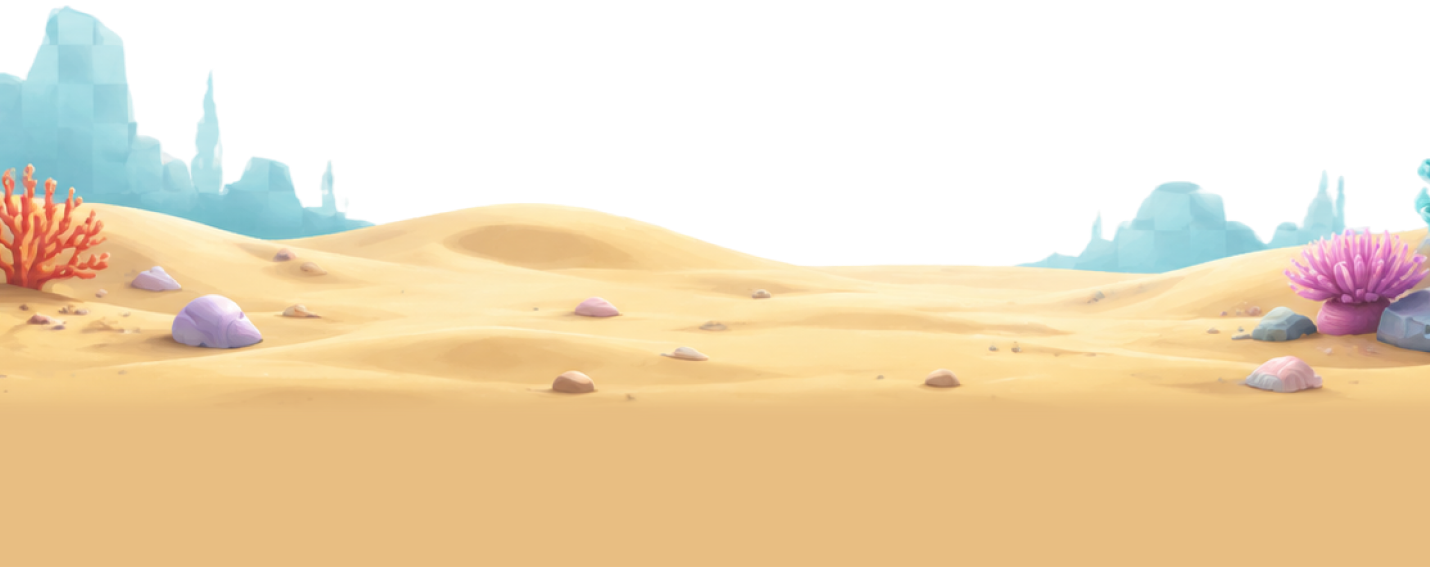
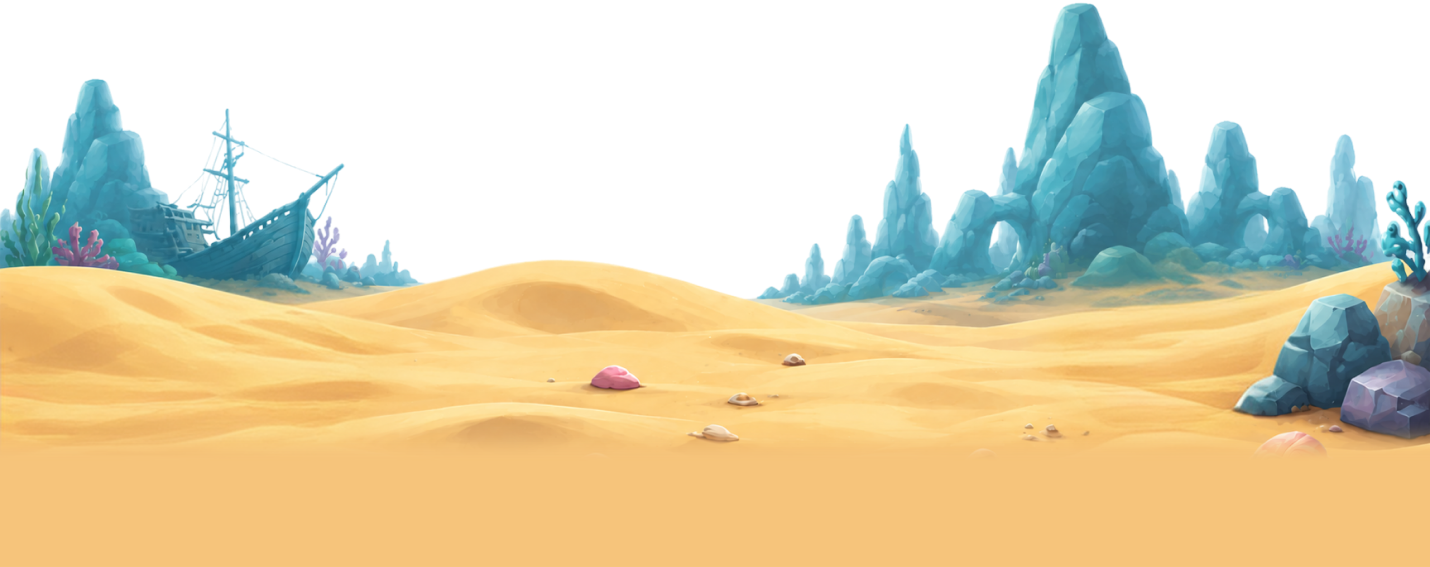
animated lvl 1

diff --git a/src/game.js b/src/game.js
@@ -2,6 +2,31 @@ import { FRUITS, STARTING_LEVELS, GAMEPLAY, PROGRESS_UI } from './fruits.js';
 
 const Phaser = window.Phaser;
 
+// ---------- Анимация составной рыбы первого уровня ----------
+const FISH_ANIMATION = Object.freeze({
+  levelIndex: 0,
+  canvasSize: 512,
+  bodyTextureKey: 'fish-level-1-body',
+  bodyTexturePath: './assets/fish/animated/level1/body.png',
+  finTextureKey: 'fish-level-1-fin',
+  finTexturePath: './assets/fish/animated/level1/fin.png',
+  eyesClosedTextureKey: 'fish-level-1-eyes-closed',
+  eyesClosedTexturePath: './assets/fish/animated/level1/eyes_closed.png',
+  
+  
+  // Точка крепления плавника к телу
+  finOriginX: 0.304,
+  finOriginY: 0.619,
+  finOffsetX: 0,
+  finOffsetY: 0,
+  // Верхнее положение плавника
+  finAngleUp: -6,
+  // Нижнее положение плавника
+  finAngleDown: 8,
+  // Время движения между крайними положениями
+  finDuration: 1600,
+});
+
 // ---------- Данные подводного атласа ----------
 const FISH_DATA = Object.freeze([
   Object.freeze({ level: 1, name: 'Пузырик', character: 'Добрый, наивный и любопытный.', description: 'Самый любопытный житель рифа. Верит, что каждый день приносит новое приключение.' }),
@@ -218,6 +243,7 @@ const EFFECTS_CONFIG = Object.freeze({
 const QA_CONFIG = Object.freeze({
   setupDelay: 120,
   mergeOffsetX: 62,
+  levelOneMergeOffsetX: 23,
   mergeY: 410,
   mergeVelocityX: 0.25,
   mergeVelocityY: -0.2,
@@ -272,6 +298,8 @@ const QA_PHYSICS_PILE = URL_OPTIONS.has('qaPhysicsPile');
 const QA_GAME_OVER = URL_OPTIONS.has('qaGameOver');
 const QA_PROGRESSION = URL_OPTIONS.has('qaProgression');
 const QA_AUDIO_EVENTS = URL_OPTIONS.has('qaAudioEvents');
+const QA_FISH_ANIMATION = URL_OPTIONS.has('qaFishAnimation');
+const QA_LEVEL_ONE_MERGE = URL_OPTIONS.has('qaLevelOneMerge');
 const QA_NEXT_LEVEL = Number.parseInt(
   URL_OPTIONS.get('qaNextLevel') || '',
   NUMBER_FORMAT_CONFIG.decimalRadix,
@@ -353,6 +381,7 @@ const ui = {
 
 const warnedProgressAssets = new Set();
 const warnedAtlasAssets = new Set();
+let warnedMissingLevelOneAnimation = false;
 // Флаг живёт до перезагрузки страницы и не сбрасывается при рестарте Phaser-сцены.
 let hasCompletedFirstDrop = false;
 
@@ -476,10 +505,11 @@ class FruitScene extends Phaser.Scene {
     this.handleAudioPageShow = null;
     this.hasWarnedSuspendedAudio = false;
     this.handleAssetLoadError = (file) => {
-      console.warn('[Audio] Failed to load asset:', file.key, file.src);
+      console.warn('[Ресурсы] Не удалось загрузить файл:', file.key, file.src);
     };
     this.recordSoundPlayed = false;
     this.gameOverSoundPlayed = false;
+    this.stoppedFishAnimationCount = 0;
   }
 
   preload() {
@@ -488,6 +518,9 @@ class FruitScene extends Phaser.Scene {
 
     // Все изображения из единой конфигурации загружаются заранее; при ошибке используется fallback-круг.
     FRUITS.forEach((config) => this.load.image(config.textureKey, config.texturePath));
+    this.load.image(FISH_ANIMATION.bodyTextureKey, FISH_ANIMATION.bodyTexturePath);
+    this.load.image(FISH_ANIMATION.finTextureKey, FISH_ANIMATION.finTexturePath);
+    this.load.image(FISH_ANIMATION.eyesClosedTextureKey, FISH_ANIMATION.eyesClosedTexturePath);
     // Универсальная закрытая рыба загружается один раз и переиспользуется во всех слотах.
     this.load.image(PROGRESS_UI.lockedTextureKey, PROGRESS_UI.lockedTexturePath);
     this.load.image(SEABED_TEXTURE_KEY, SEABED_TEXTURE_PATH);
@@ -530,6 +563,7 @@ class FruitScene extends Phaser.Scene {
     this.ambientEnabled = readAmbientEnabled();
     this.recordSoundPlayed = false;
     this.gameOverSoundPlayed = false;
+    this.stoppedFishAnimationCount = 0;
 
     this.time.paused = false;
     this.matter.world.resume();
@@ -538,6 +572,15 @@ class FruitScene extends Phaser.Scene {
     FRUITS.forEach((config) => {
       if (this.textures.exists(config.textureKey)) {
         this.textures.get(config.textureKey).setFilter(Phaser.Textures.FilterMode.NEAREST);
+      }
+    });
+    [
+      FISH_ANIMATION.bodyTextureKey,
+      FISH_ANIMATION.finTextureKey,
+      FISH_ANIMATION.eyesClosedTextureKey,
+    ].forEach((textureKey) => {
+      if (this.textures.exists(textureKey)) {
+        this.textures.get(textureKey).setFilter(Phaser.Textures.FilterMode.NEAREST);
       }
     });
     if (this.textures.exists(PROGRESS_UI.lockedTextureKey)) {
@@ -607,6 +650,7 @@ class FruitScene extends Phaser.Scene {
     if (QA_PHYSICS_PILE) this.setupPhysicsPileQa();
     if (QA_GAME_OVER) this.setupGameOverQa();
     if (QA_PROGRESSION) this.setupProgressionQa();
+    if (QA_LEVEL_ONE_MERGE) this.setupLevelOneMergeQa();
   }
 
   // ======================== Звуки ========================
@@ -1073,6 +1117,7 @@ class FruitScene extends Phaser.Scene {
     if (this.atlasWasRunning) {
       this.matter.world.pause();
       this.time.paused = true;
+      this.setFishPartAnimationsPaused(true);
     }
     this.renderAtlas();
     ui.atlasModal.hidden = false;
@@ -1086,6 +1131,7 @@ class FruitScene extends Phaser.Scene {
     if (this.atlasWasRunning && !this.isPaused && !this.gameEnded) {
       this.time.paused = false;
       this.matter.world.resume();
+      this.setFishPartAnimationsPaused(false);
       if (this.currentFruit?.isHeld) this.positionCurrentFruit(this.lastDragX);
     }
     this.atlasWasRunning = false;
@@ -1156,6 +1202,23 @@ class FruitScene extends Phaser.Scene {
     this.time.delayedCall(QA_CONFIG.setupDelay, () => {
       const left = this.createFruit(GAME_WIDTH / 2 - QA_CONFIG.mergeOffsetX, QA_CONFIG.mergeY, MAX_LEVEL_INDEX);
       const right = this.createFruit(GAME_WIDTH / 2 + QA_CONFIG.mergeOffsetX, QA_CONFIG.mergeY, MAX_LEVEL_INDEX);
+      left.physics.setVelocity(QA_CONFIG.mergeVelocityX, QA_CONFIG.mergeVelocityY);
+      right.physics.setVelocity(-QA_CONFIG.mergeVelocityX, QA_CONFIG.mergeVelocityY);
+    });
+  }
+
+  setupLevelOneMergeQa() {
+    this.time.delayedCall(QA_CONFIG.setupDelay, () => {
+      const left = this.createFruit(
+        GAME_WIDTH / 2 - QA_CONFIG.levelOneMergeOffsetX,
+        QA_CONFIG.mergeY,
+        FISH_ANIMATION.levelIndex,
+      );
+      const right = this.createFruit(
+        GAME_WIDTH / 2 + QA_CONFIG.levelOneMergeOffsetX,
+        QA_CONFIG.mergeY,
+        FISH_ANIMATION.levelIndex,
+      );
       left.physics.setVelocity(QA_CONFIG.mergeVelocityX, QA_CONFIG.mergeVelocityY);
       right.physics.setVelocity(-QA_CONFIG.mergeVelocityX, QA_CONFIG.mergeVelocityY);
     });
@@ -1381,17 +1444,149 @@ class FruitScene extends Phaser.Scene {
     this.positionCurrentFruit(this.lastDragX);
   }
 
+  hasLevelOneAnimationTextures() {
+    const requiredTextures = [
+      FISH_ANIMATION.bodyTextureKey,
+      FISH_ANIMATION.finTextureKey,
+      FISH_ANIMATION.eyesClosedTextureKey,
+    ];
+    const hasEveryTexture = requiredTextures.every((textureKey) => this.textures.exists(textureKey));
+    if (!hasEveryTexture && !warnedMissingLevelOneAnimation) {
+      warnedMissingLevelOneAnimation = true;
+      console.warn(
+        '[Анимация level1] Не все слои body.png, fin.png и eyes_closed.png загружены. Используется обычный assets/fish/level1.png.',
+      );
+    }
+    return hasEveryTexture;
+  }
+
+  createLevelOneAnimatedVisual(x, y, config) {
+    const body = this.add.image(0, 0, FISH_ANIMATION.bodyTextureKey)
+      .setOrigin(config.originX, config.originY);
+    const fin = this.add.image(0, 0, FISH_ANIMATION.finTextureKey)
+      .setOrigin(FISH_ANIMATION.finOriginX, FISH_ANIMATION.finOriginY);
+    const eyesClosed = this.add.image(0, 0, FISH_ANIMATION.eyesClosedTextureKey)
+      .setOrigin(config.originX, config.originY)
+      .setVisible(false);
+
+    // Компенсация origin сохраняет совмещение холстов при нулевом угле плавника.
+    const finCanvasWidth = fin.width || FISH_ANIMATION.canvasSize;
+    const finCanvasHeight = fin.height || FISH_ANIMATION.canvasSize;
+    fin.setPosition(
+      (FISH_ANIMATION.finOriginX - config.originX) * finCanvasWidth + FISH_ANIMATION.finOffsetX,
+      (FISH_ANIMATION.finOriginY - config.originY) * finCanvasHeight + FISH_ANIMATION.finOffsetY,
+    );
+
+    const visual = this.add.container(x, y, [body, fin, eyesClosed])
+      .setDepth(FISH_VISUAL_CONFIG.imageDepth);
+    const targetImageWidth = (config.radius * 2) / config.bodyRatio;
+    const baseVisualScale = targetImageWidth / body.width;
+    visual.setScale(baseVisualScale);
+
+    return { visual, body, fin, eyesClosed, baseVisualScale };
+  }
+
+  scheduleFruitAnimationCall(fruit, delay, callback) {
+    if (fruit.removed) return null;
+    let timer = null;
+    timer = this.time.delayedCall(delay, () => {
+      fruit.animationTimers.delete(timer);
+      if (!fruit.removed) callback();
+    });
+    fruit.animationTimers.add(timer);
+    return timer;
+  }
+
+  scheduleNextBlink(fruit) {
+    if (!fruit.eyesClosed || fruit.removed) return;
+    const delay = Phaser.Math.Between(
+      FISH_ANIMATION.blinkMinDelay,
+      FISH_ANIMATION.blinkMaxDelay,
+    );
+    this.scheduleFruitAnimationCall(fruit, delay, () => this.runBlink(fruit));
+  }
+
+  runBlink(fruit) {
+    if (!fruit.eyesClosed || fruit.removed) return;
+    fruit.eyesClosed.setVisible(true);
+    const useDoubleBlink = Math.random() < FISH_ANIMATION.doubleBlinkChance;
+
+    this.scheduleFruitAnimationCall(fruit, FISH_ANIMATION.blinkDuration, () => {
+      fruit.eyesClosed.setVisible(false);
+      if (!useDoubleBlink) {
+        this.scheduleNextBlink(fruit);
+        return;
+      }
+
+      const openDelay = Phaser.Math.Between(
+        FISH_ANIMATION.doubleBlinkOpenMinDelay,
+        FISH_ANIMATION.doubleBlinkOpenMaxDelay,
+      );
+      this.scheduleFruitAnimationCall(fruit, openDelay, () => {
+        fruit.eyesClosed.setVisible(true);
+        this.scheduleFruitAnimationCall(fruit, FISH_ANIMATION.doubleBlinkDuration, () => {
+          fruit.eyesClosed.setVisible(false);
+          this.scheduleNextBlink(fruit);
+        });
+      });
+    });
+  }
+
+  startFruitPartAnimation(fruit) {
+    if (!fruit.fin || !fruit.eyesClosed) return;
+    if (fruit.finTween) return;
+
+    // Один непрерывный tween изменяет только локальный угол плавника.
+    fruit.fin.setAngle(FISH_ANIMATION.finAngleUp);
+    fruit.finTween = this.tweens.add({
+      targets: fruit.fin,
+      angle: FISH_ANIMATION.finAngleDown,
+      duration: FISH_ANIMATION.finDuration,
+      yoyo: true,
+      repeat: -1,
+      ease: 'Sine.easeInOut',
+    });
+    this.scheduleNextBlink(fruit);
+  }
+
+  stopFruitPartAnimation(fruit) {
+    if (fruit.finTween || fruit.animationTimers?.size) this.stoppedFishAnimationCount += 1;
+    fruit.finTween?.stop();
+    fruit.finTween?.remove();
+    fruit.finTween = null;
+    fruit.animationTimers?.forEach((timer) => timer.remove(false));
+    fruit.animationTimers?.clear();
+  }
+
+  setFishPartAnimationsPaused(value) {
+    const animatedFruits = new Set(this.fruits.values());
+    if (this.currentFruit) animatedFruits.add(this.currentFruit);
+    animatedFruits.forEach((fruit) => {
+      if (!fruit.finTween) return;
+      if (value) fruit.finTween.pause();
+      else fruit.finTween.resume();
+    });
+  }
+
   createFruit(x, y, level, isHeld = false) {
     const config = FRUITS[level];
 
     // visual и label не участвуют в физике: позже visual можно заменить изображением рыбки.
+    const usesAnimatedLevelOne = level === FISH_ANIMATION.levelIndex
+      && this.hasLevelOneAnimationTextures();
     const hasTexture = this.textures.exists(config.textureKey);
     let visual;
     let shine = null;
     let label = null;
     let baseVisualScale = 1;
+    let body = null;
+    let fin = null;
+    let eyesClosed = null;
 
-    if (hasTexture) {
+    if (usesAnimatedLevelOne) {
+      const animatedVisual = this.createLevelOneAnimatedVisual(x, y, config);
+      ({ visual, body, fin, eyesClosed, baseVisualScale } = animatedVisual);
+    } else if (hasTexture) {
       visual = this.add.image(x, y, config.textureKey)
         .setOrigin(config.originX, config.originY)
         .setDepth(FISH_VISUAL_CONFIG.imageDepth);
@@ -1438,7 +1633,12 @@ class FruitScene extends Phaser.Scene {
       shine,
       label,
       baseVisualScale,
-      usesTexture: hasTexture,
+      usesTexture: usesAnimatedLevelOne || hasTexture,
+      body,
+      fin,
+      eyesClosed,
+      finTween: null,
+      animationTimers: new Set(),
       physics: null,
       level,
       isHeld,
@@ -1448,6 +1648,7 @@ class FruitScene extends Phaser.Scene {
       wobbleSeed: Math.random() * NUMBER_FORMAT_CONFIG.fullCircle,
       lastBubbleAt: this.time.now + Phaser.Math.Between(0, FISH_VISUAL_CONFIG.initialBubbleDelayMax),
     };
+    if (usesAnimatedLevelOne) this.startFruitPartAnimation(fruit);
     if (!isHeld) this.activateFruitPhysics(fruit);
     return fruit;
   }
@@ -1824,6 +2025,7 @@ class FruitScene extends Phaser.Scene {
   removeFruit(fruit) {
     if (!fruit?.physics?.body || fruit.removed) return;
     fruit.removed = true;
+    this.stopFruitPartAnimation(fruit);
     const bodyId = fruit.physics.body.id;
     this.fruits.delete(bodyId);
     this.dangerSince.delete(bodyId);
@@ -1942,6 +2144,21 @@ class FruitScene extends Phaser.Scene {
       ui.gameWrap.dataset.qaSleepingBodies = String(qaSleepingBodies);
       ui.gameWrap.dataset.qaBodyCount = String(this.fruits.size);
     }
+    if (QA_FISH_ANIMATION) {
+      const animatedFruits = new Set([...this.fruits.values()].filter((fruit) => fruit.fin));
+      if (this.currentFruit?.fin) animatedFruits.add(this.currentFruit);
+      const [animatedFruit] = animatedFruits;
+      ui.gameWrap.dataset.qaAnimatedLevelOne = String(Boolean(animatedFruit));
+      ui.gameWrap.dataset.qaAnimatedFishCount = String(animatedFruits.size);
+      ui.gameWrap.dataset.qaFinAngle = animatedFruit ? animatedFruit.fin.angle.toFixed(3) : '';
+      ui.gameWrap.dataset.qaEyesClosed = animatedFruit
+        ? String(animatedFruit.eyesClosed.visible)
+        : '';
+      ui.gameWrap.dataset.qaAnimationTimerCount = String(
+        [...animatedFruits].reduce((timerCount, fruit) => timerCount + fruit.animationTimers.size, 0),
+      );
+      ui.gameWrap.dataset.qaStoppedFishAnimationCount = String(this.stoppedFishAnimationCount);
+    }
   }
 
   // ======================== Верхний интерфейс и состояния игры ========================
@@ -1976,6 +2193,7 @@ class FruitScene extends Phaser.Scene {
       this.matter.world.resume();
       if (this.currentFruit?.isHeld) this.positionCurrentFruit(this.lastDragX);
     }
+    this.setFishPartAnimationsPaused(value);
     this.startAmbient();
   }
 
